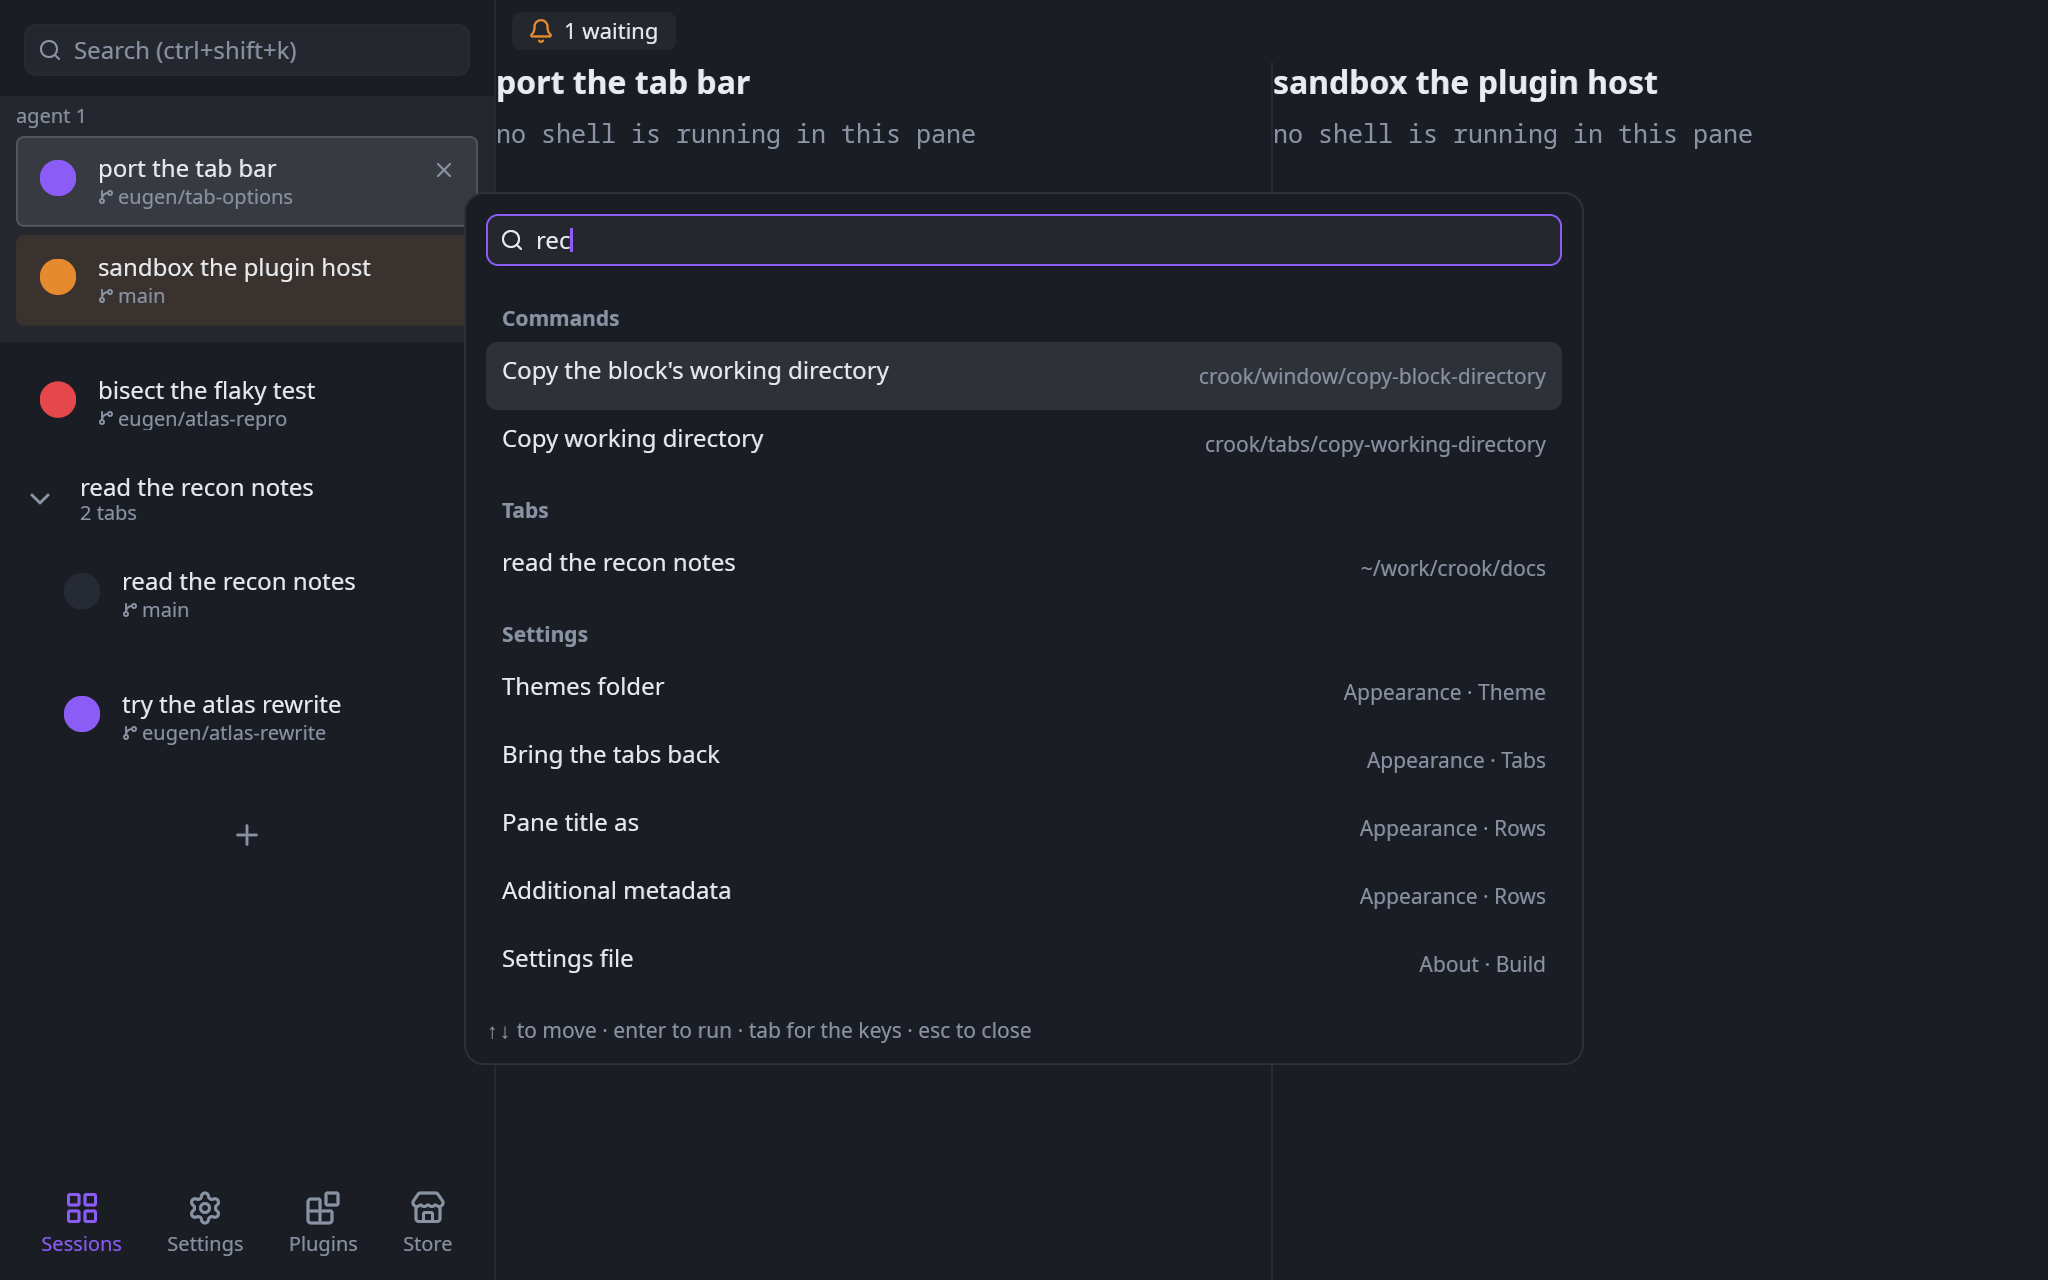
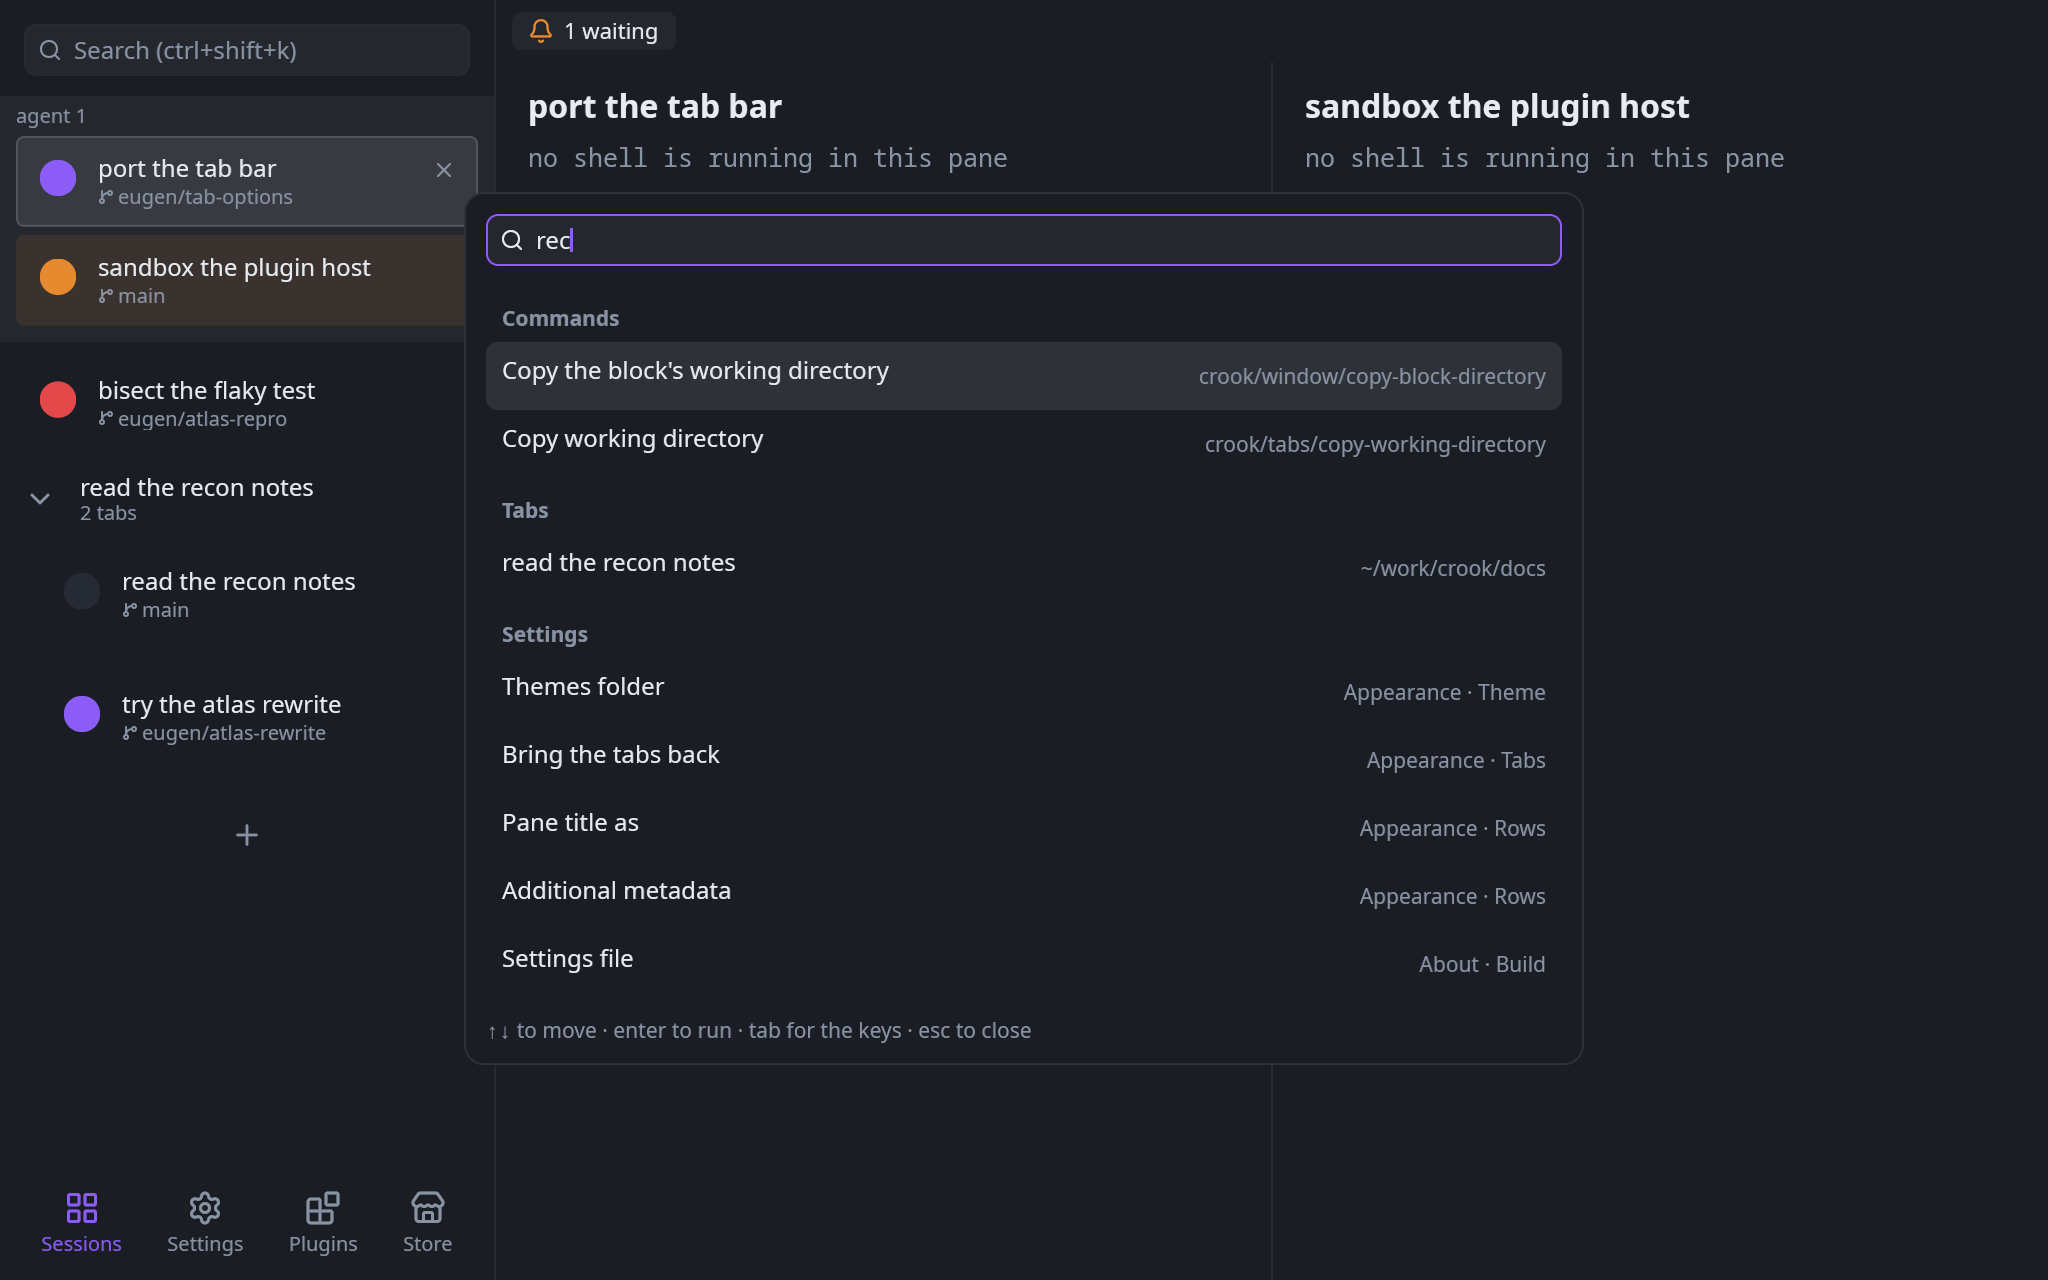
A pane with no grid says so inside its gutter and inside its width
The notice — the pane's title over the reason it has no terminal — was
drawn against the pane's left edge, two pixels from the divider and
under the "1 waiting" chip, and its two lines were one `Text` each: a
title wider than the pane stopped on whatever letter fell at the
border, and so did the reason, which the one time it is "the shell
could not be started: …" is the line worth reading to the end.

Inset by the gutter the shell's own text is, so the title stands where
a prompt would; the title cut with a mark where the pane runs out; the
reason a paragraph, wrapped by measure. The README's palette picture is
re-rendered, since the two panes behind the palette show the notice.

The test splits a seeded workspace in a 560px window and holds the
title to starting a gutter in, ending in the mark inside the gutter,
and the reason to more than one line with every word present. Fails on
main at the first assertion.

Changed region(s): [[0.625, 0.0625, 0.875, 0.125], [0.25, 0.0312, 0.5, 0.125]]

diff --git a/app/src/workspace/body.rs b/app/src/workspace/body.rs
@@ -80,7 +80,7 @@ use std::time::Instant;
 
 use crook_terminal::{Snapshot, TerminalSize};
 use crookui_core::element::SizeConstraint;
-use crookui_core::elements::{MouseStateHandle, Padding};
+use crookui_core::elements::{MouseStateHandle, Padding, Paragraph};
 use crookui_core::event::{DispatchedEvent, Event, MouseButton};
 use crookui_core::fonts::{Properties, Weight};
 use crookui_core::geometry::{Point, Vector2F, vec2f};
@@ -166,6 +166,11 @@ const CHIP_GAP: f32 = 6.;
 
 /// The gap between the line being composed and the row of chips under it.
 const CHIPS_PADDING_TOP: f32 = 8.;
+
+/// How far the notice a pane with no grid shows sits under the pane's top
+/// edge: about a row of the grid the shell would have drawn there, so that
+/// the title stands where the first prompt would.
+const NOTICE_PADDING_TOP: f32 = 12.;
 
 /// How far the floating row is held off the corner it sits in.
 ///
@@ -868,27 +873,39 @@ impl Element for PaneSizer {
 }
 
 /// What a panel with no grid says.
+///
+/// Inset by the gutter the shell's own text is, so the title stands where a
+/// prompt would, and held to the pane: the title is cut with a mark where the
+/// pane runs out, and the reason wraps, because the one time it is a shell
+/// that could not be started its end is the part worth reading.
 fn notice(workspace: &Workspace, pane: &Pane, reason: String) -> Box<dyn Element> {
     let fonts = workspace.fonts();
 
-    Flex::column()
-        .with_main_axis_size(MainAxisSize::Max)
-        .with_spacing(9.)
-        .with_child(
-            Text::new(pane.title().to_owned(), fonts.ui, 16.)
-                .with_color(theme().text_primary)
-                .with_style(Properties {
-                    weight: Weight::Semibold,
-                    ..Default::default()
-                })
-                .finish(),
-        )
-        .with_child(
-            Text::new(reason, fonts.monospace, 12.5)
-                .with_color(theme().text_muted)
-                .finish(),
-        )
-        .finish()
+    Container::new(
+        Flex::column()
+            .with_main_axis_size(MainAxisSize::Min)
+            .with_cross_axis_alignment(CrossAxisAlignment::Start)
+            .with_spacing(9.)
+            .with_child(
+                Text::new(pane.title().to_owned(), fonts.ui, 16.)
+                    .with_color(theme().text_primary)
+                    .with_ellipsis(Cut::End)
+                    .with_style(Properties {
+                        weight: Weight::Semibold,
+                        ..Default::default()
+                    })
+                    .finish(),
+            )
+            .with_child(
+                Paragraph::new(reason, fonts.monospace, 12.5)
+                    .with_color(theme().text_muted)
+                    .finish(),
+            )
+            .finish(),
+    )
+    .with_horizontal_padding(GUTTER)
+    .with_vertical_padding(NOTICE_PADDING_TOP)
+    .finish()
 }
 
 /// An extent to lay out at, given a maximum that may be unbounded.

diff --git a/app/src/workspace/tests.rs b/app/src/workspace/tests.rs
@@ -2356,6 +2356,59 @@ fn a_pane_fills_its_share_of_the_body_and_not_just_the_cells_it_can_draw() {
 }
 
 #[test]
+fn a_pane_with_no_grid_says_so_inside_its_gutter_and_inside_its_width() {
+    // The notice was drawn against the pane's left edge, and its two lines
+    // were one `Text` each: a title wider than the pane stopped on whatever
+    // letter fell at the border, and so did the reason — which, the one time
+    // it is a shell that could not be started, is the line worth reading to
+    // the end. Inset by the gutter now, the title cut with a mark, the reason
+    // wrapped.
+    let mut harness = Harness::seeded();
+    harness.dispatch_action(TabAction::Split(Direction::Right));
+    let scene = harness.frame_sized(vec2f(560., 400.));
+    let panes = panel_boxes(&scene);
+    assert_eq!(panes.len(), 2, "the split made two panes");
+    let pane = panes[0];
+    let inset = crate::workspace::body::GUTTER;
+
+    let lines = text_lines(&scene, |position| pane.contains_point(position));
+    let (title_at, title) = lines.first().expect("the pane says nothing");
+    assert!(
+        (title_at.x() - (pane.min_x() + inset)).abs() < 0.5,
+        "the title starts at x={}, not inside the gutter from {}",
+        title_at.x(),
+        pane.min_x()
+    );
+    assert!(
+        title.ends_with('…') && "port the tab bar".starts_with(title.trim_end_matches('…')),
+        "{title:?} is not the start of the title, cut with a mark"
+    );
+    let title_end = title_at.x() + title.chars().count() as f32 * 16. * 0.5;
+    assert!(
+        title_end <= pane.max_x() - inset,
+        "the title ends at {title_end}, past the gutter from {}",
+        pane.max_x()
+    );
+
+    let reason: Vec<&(Vector2F, String)> = lines.iter().skip(1).collect();
+    assert!(reason.len() > 1, "the reason was not wrapped: {reason:?}");
+    for (start, text) in &reason {
+        let end = start.x() + text.chars().count() as f32 * 12.5 * 0.5;
+        assert!(
+            end <= pane.max_x() - inset,
+            "{text:?} ends at {end}, past the gutter from {}",
+            pane.max_x()
+        );
+    }
+    let joined: Vec<&str> = reason.iter().map(|(_, text)| text.as_str()).collect();
+    assert_eq!(
+        joined.join(" "),
+        "no shell is running in this pane",
+        "wrapping dropped or duplicated a word"
+    );
+}
+
+#[test]
 fn a_vertical_split_stacks_its_panels() {
     let mut harness = Harness::new(1);
 
